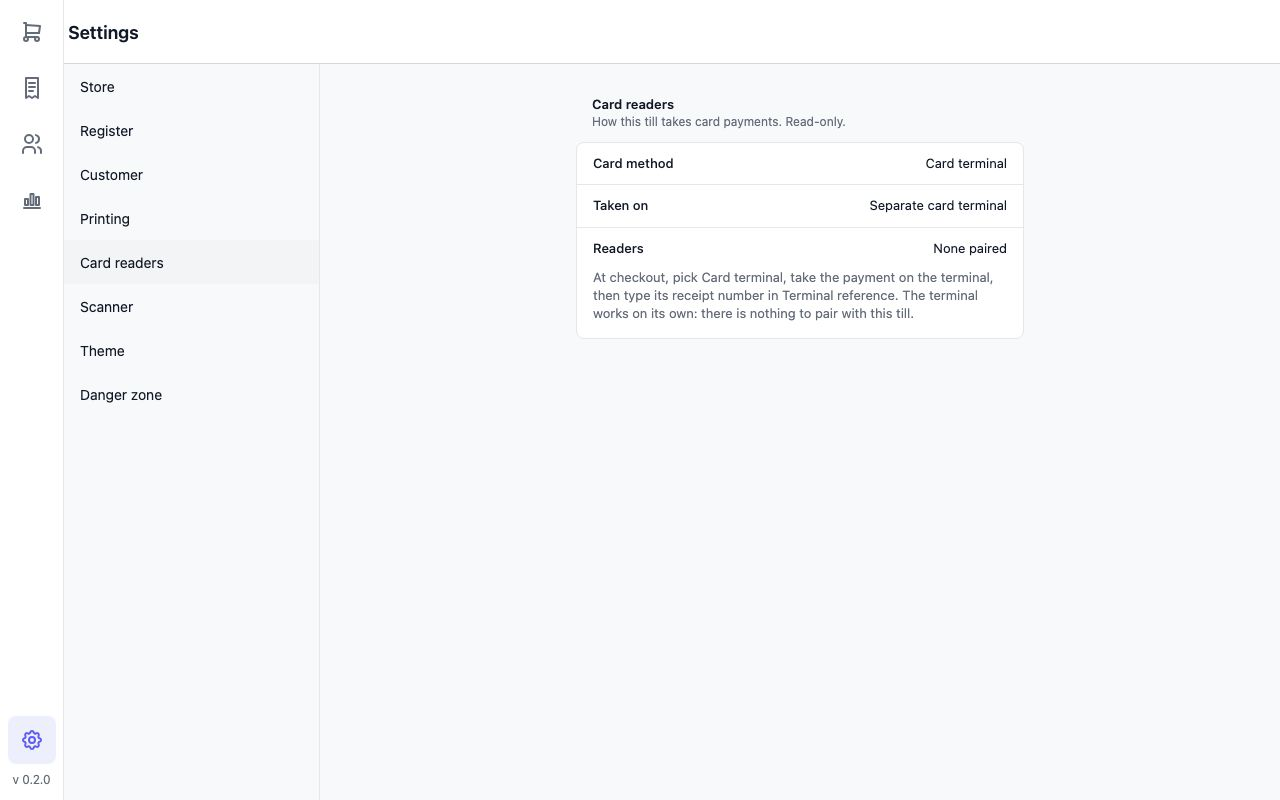
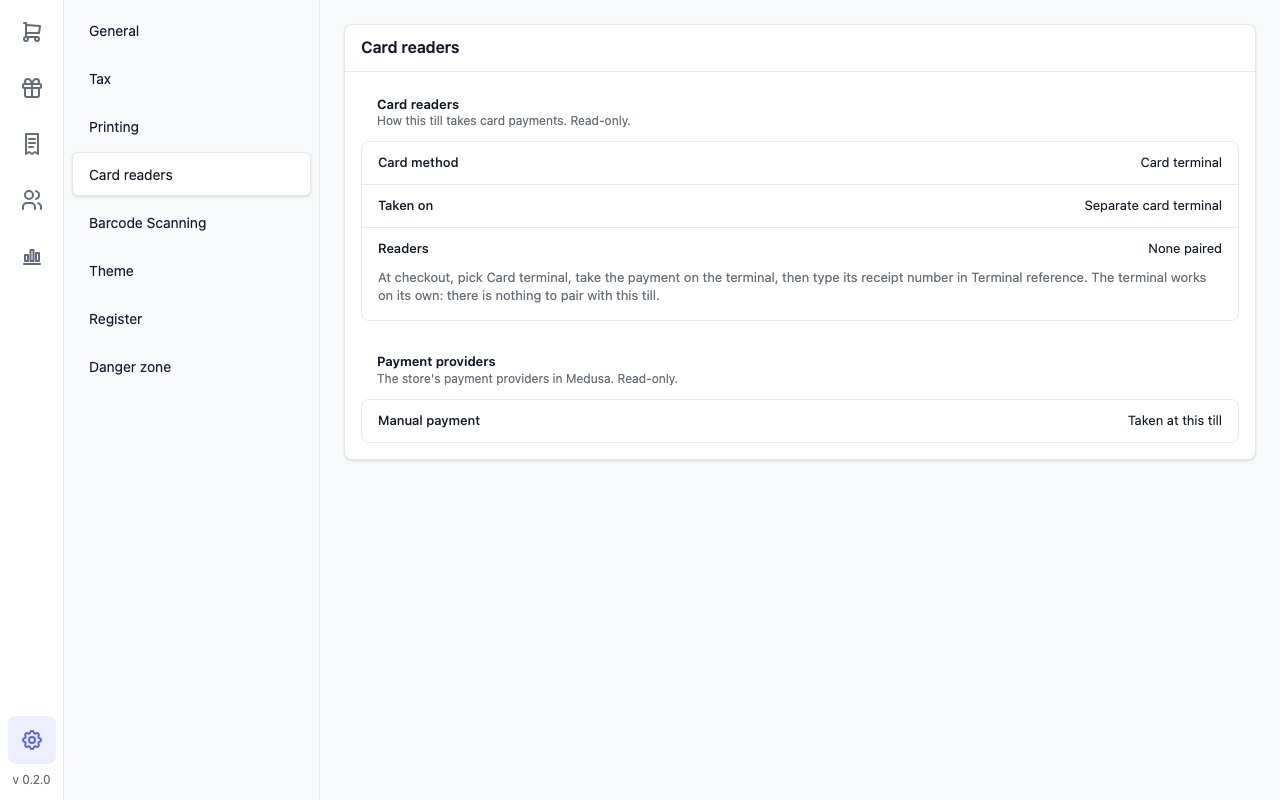
feat: Settings › Card readers lists the store's Medusa payment providers, as v2 lists readers (row 15d)
v2's Settings › Card readers lists the store's readers. The Medusa way is the
store's payment providers, so the plugin gets a read-only GET
/tally/v1/payment-providers (till auth + TALLY_POS_USE) that lists the
enabled providers from Medusa's payment module, each with a display name and
whether this till takes it (only pp_system_default, the provider the till
records sales through). Settings › Card readers draws them as a "Payment
providers" group under the unchanged Card readers group. An older plugin's
404 or any failed read shows no list. No pairing, no payment-flow change, no
PLUGIN_CONTRACT bump.

DEMO-PARITY row 15d re-shot and updated.

Claude-Session: https://claude.ai/code/session_013ukctmaNV1HP6KBYj7uJnX

diff --git a/apps/expo/tests/settings-card-readers.test.tsx b/apps/expo/tests/settings-card-readers.test.tsx
@@ -1,5 +1,5 @@
 // @vitest-environment jsdom
-import { act, cleanup, fireEvent, render, screen } from '@testing-library/react';
+import { act, cleanup, fireEvent, render, screen, waitFor } from '@testing-library/react';
 import type { ReactNode } from 'react';
 import { afterEach, beforeEach, describe, expect, it, vi } from 'vitest';
 import { saveSession } from '../lib/session';
@@ -29,8 +29,12 @@ vi.mock('expo-linking', () => ({ openURL: vi.fn().mockResolvedValue(true) }));
 vi.mock('expo-localization', () => ({ getLocales: () => [{ languageTag: 'en-GB' }] }));
 
 const baseUrl = 'https://store.test';
+const providersResponse = (providers: unknown[]) => vi.fn(async () => new Response(JSON.stringify({ providers }), {
+  status: 200, headers: { 'Content-Type': 'application/json' },
+}));
 
 beforeEach(() => {
+  vi.stubGlobal('fetch', providersResponse([]));
   const data = new Map<string, string>();
   vi.stubGlobal('localStorage', {
     getItem: (key: string) => data.get(key) ?? null,
@@ -80,5 +84,31 @@ describe('Settings › Card readers', () => {
     expect(cardReaders.textContent).toBe('Card readers');
     expect(follows(screen.getByTestId('settings-list-printing'), cardReaders)).toBe(true);
     expect(follows(cardReaders, screen.getByTestId('settings-list-scanner'))).toBe(true);
+  });
+
+  it("lists the store's payment providers and whether this till can take each", async () => {
+    vi.stubGlobal('fetch', providersResponse([
+      { id: 'pp_system_default', name: 'Manual payment', tillCanTake: true },
+      { id: 'pp_stripe_stripe', name: 'Stripe', tillCanTake: false },
+    ]));
+    setWindowWidth(1280, 800);
+    await mount();
+    fireEvent.click(screen.getByTestId('settings-nav-card-readers'));
+    await screen.findByTestId('settings-payment-providers');
+    expect(screen.getByTestId('settings-payment-provider-pp_system_default').textContent).toContain('Manual payment');
+    expect(screen.getByTestId('settings-payment-provider-pp_system_default-state').textContent).toBe('Taken at this till');
+    expect(screen.getByTestId('settings-payment-provider-pp_stripe_stripe').textContent).toContain('Stripe');
+    expect(screen.getByTestId('settings-payment-provider-pp_stripe_stripe-state').textContent).toBe('Not at this till');
+    expect(screen.getByTestId('settings-card-readers-how')).toBeTruthy();
+  });
+
+  it('with no payment providers shows the card note only', async () => {
+    setWindowWidth(1280, 800);
+    await mount();
+    fireEvent.click(screen.getByTestId('settings-nav-card-readers'));
+    await waitFor(() => expect(fetch).toHaveBeenCalledWith(`${baseUrl}/tally/v1/payment-providers`, expect.anything()));
+    await act(async () => {});
+    expect(screen.getByTestId('settings-card-readers-how')).toBeTruthy();
+    expect(screen.queryByTestId('settings-payment-providers')).toBeNull();
   });
 });

diff --git a/apps/expo/app/settings.tsx b/apps/expo/app/settings.tsx
@@ -10,6 +10,7 @@ import { DirectScannerConnection } from '../components/device-scanner';
 import { THEME_LABELS, ThemeTiles } from '../components/theme-tiles';
 import { FontPicker } from '../components/font-choice';
 import { PrintersGroup } from '../components/printers-group';
+import { PaymentProvidersGroup } from '../components/payment-providers-group';
 import { ReceiptTemplatesGroup } from '../components/receipt-templates';
 import { AreaAccountButton, FrameMenuButton, useFrameMenu } from '../components/app-frame';
 import { StripHeightContext } from '../components/store-refused';
@@ -65,7 +66,7 @@ export default function SettingsScreen() {
     { id: 'store', label: 'General', element: <StoreSection session={session} /> },
     { id: 'tax', label: 'Tax', element: <TaxSection session={session} /> },
     { id: 'printing', label: 'Printing', element: <PrintingSection session={session} /> },
-    { id: 'card-readers', label: 'Card readers', element: <CardReadersSection /> },
+    { id: 'card-readers', label: 'Card readers', element: <CardReadersSection session={session} /> },
     { id: 'scanner', label: 'Barcode Scanning', element: <ScannerSection session={session} /> },
     { id: 'theme', label: 'Theme', element: <ThemeSection /> },
     { id: 'register', label: 'Register', element: <RegisterSection session={session} /> },
@@ -320,9 +321,9 @@ function PrintingSection({ session }: { session: Session }) {
   <ReceiptTemplatesGroup session={session} />
   </>;
 }
-function CardReadersSection() {
+function CardReadersSection({ session }: { session: Session }) {
   const mode = cardPaymentMode(TILL_PAYMENT_METHODS);
-  return <SettingsGroup title="Card readers" testID="settings-card-readers" description="How this till takes card payments. Read-only.">
+  return <><SettingsGroup title="Card readers" testID="settings-card-readers" description="How this till takes card payments. Read-only.">
     {mode ? <>
       <SettingsRow label="Card method" action={
         <Text testID="settings-card-readers-method" className="max-w-40 text-right text-sm text-foreground">{mode.method}</Text>
@@ -339,7 +340,9 @@ function CardReadersSection() {
     </> : <View className="px-4 pb-4">
       <Text testID="settings-card-readers-none" className="text-sm text-muted-foreground">This till takes no card payments.</Text>
     </View>}
-  </SettingsGroup>;
+  </SettingsGroup>
+  <PaymentProvidersGroup session={session} />
+  </>;
 }
 function ScannerSection({ session }: { session: Session }) {
   const { settings, save, reset } = useScannerSettings(defaultStorage(), session.baseUrl);

diff --git a/packages/medusa-plugin/integration-tests/http/payment-providers.spec.ts b/packages/medusa-plugin/integration-tests/http/payment-providers.spec.ts
@@ -1,0 +1,47 @@
+import path from 'node:path'
+import type { MedusaContainer } from '@medusajs/framework/types'
+import { ContainerRegistrationKeys, Modules } from '@medusajs/framework/utils'
+import { medusaIntegrationTestRunner } from '@medusajs/test-utils'
+
+jest.setTimeout(180000)
+
+medusaIntegrationTestRunner({
+  cwd: path.resolve(__dirname, '../plugin-app'),
+  testSuite: ({ api, getContainer }) => {
+    let container: MedusaContainer
+    let headers: Record<string, string>
+    beforeAll(async () => {
+      container = getContainer()
+      const email = 'pos-admin@example.com'
+      const password = 'integration-test-password'
+      const user = await container.resolve(Modules.USER).createUsers({ email })
+      const auth = container.resolve(Modules.AUTH)
+      const { authIdentity, error } = await auth.register('emailpass', { body: { email, password } })
+      expect(error).toBeUndefined()
+      await auth.updateAuthIdentities({ id: authIdentity!.id, app_metadata: { user_id: user.id } })
+      const login = await api.post('/auth/user/emailpass', { email, password })
+      expect(login.status).toBe(200)
+      headers = { Authorization: `Bearer ${login.data.token}`, 'X-Tally-Protocol': '1' }
+      await container.resolve(ContainerRegistrationKeys.PG_CONNECTION)('payment_provider').insert([
+        { id: 'pp_acme-pay_acme', is_enabled: true },
+        { id: 'pp_old-gateway_old', is_enabled: false },
+      ])
+    })
+
+    it("lists the store's enabled payment providers, the till's own first", async () => {
+      const response = await api.get('/tally/v1/payment-providers', { headers })
+      expect(response.status).toBe(200)
+      expect(response.data.providers).toEqual([
+        { id: 'pp_system_default', name: 'Manual payment', tillCanTake: true },
+        { id: 'pp_acme-pay_acme', name: 'Acme Pay', tillCanTake: false },
+      ])
+    })
+
+    it("is refused without the till's auth", async () => {
+      const response = await api.get('/tally/v1/payment-providers', {
+        headers: { 'X-Tally-Protocol': '1' }, validateStatus: () => true,
+      })
+      expect(response.status).toBe(401)
+    })
+  },
+})

diff --git a/apps/expo/lib/payment-providers.test.ts b/apps/expo/lib/payment-providers.test.ts
@@ -1,0 +1,40 @@
+import { describe, expect, it, vi } from 'vitest';
+import { fetchPaymentProviders } from './payment-providers';
+
+const session = { baseUrl: 'https://store.test', token: 'tok_123' };
+const json = (status: number, body: unknown) => new Response(JSON.stringify(body), { status, headers: { 'Content-Type': 'application/json' } });
+
+describe('fetchPaymentProviders', () => {
+  it('returns the providers and drops a malformed row', async () => {
+    const fetchImpl = vi.fn().mockResolvedValue(json(200, { providers: [
+      { id: 'pp_system_default', name: 'Manual payment', tillCanTake: true },
+      { id: 'pp_stripe_stripe', name: 'Stripe' },
+      { id: 'pp_acme-pay_acme', name: 'Acme Pay', tillCanTake: false },
+    ] }));
+    await expect(fetchPaymentProviders(session, fetchImpl)).resolves.toEqual([
+      { id: 'pp_system_default', name: 'Manual payment', tillCanTake: true },
+      { id: 'pp_acme-pay_acme', name: 'Acme Pay', tillCanTake: false },
+    ]);
+  });
+
+  it('asks the plugin route with the session bearer token', async () => {
+    const fetchImpl = vi.fn().mockResolvedValue(json(200, { providers: [] }));
+    await fetchPaymentProviders(session, fetchImpl);
+    expect(fetchImpl).toHaveBeenCalledTimes(1);
+    const [url, init] = fetchImpl.mock.calls[0];
+    expect(url).toBe('https://store.test/tally/v1/payment-providers');
+    expect(new Headers(init.headers).get('Authorization')).toBe('Bearer tok_123');
+  });
+
+  it('returns null on a 404 from an older plugin', async () => {
+    await expect(fetchPaymentProviders(session, vi.fn().mockResolvedValue(json(404, { message: 'Not found' })))).resolves.toBeNull();
+  });
+
+  it('returns null when the fetch rejects', async () => {
+    await expect(fetchPaymentProviders(session, vi.fn().mockRejectedValue(new TypeError('Failed to fetch')))).resolves.toBeNull();
+  });
+
+  it('returns null on a body without a providers array', async () => {
+    await expect(fetchPaymentProviders(session, vi.fn().mockResolvedValue(json(200, { providers: 'none' })))).resolves.toBeNull();
+  });
+});

diff --git a/apps/expo/components/payment-providers-group.tsx b/apps/expo/components/payment-providers-group.tsx
@@ -1,0 +1,24 @@
+import { useEffect, useState } from 'react';
+import { SettingsGroup, SettingsRow, Text } from '@tallyui/components';
+import { fetchPaymentProviders, type PaymentProvider } from '../lib/payment-providers';
+import type { Session } from '../lib/session';
+
+// v2's Settings › Card readers lists the store's readers; on Medusa that is the store's payment providers.
+export function PaymentProvidersGroup({ session }: { session: Session }) {
+  const [providers, setProviders] = useState<PaymentProvider[] | null>(null);
+  useEffect(() => {
+    let mounted = true;
+    fetchPaymentProviders(session).then((result) => { if (mounted) setProviders(result); });
+    return () => { mounted = false; };
+  }, [session.baseUrl, session.token]);
+  if (!providers?.length) return null;
+  return <SettingsGroup title="Payment providers" testID="settings-payment-providers" description="The store's payment providers in Medusa. Read-only.">
+    {providers.map((provider, index) => <SettingsRow key={provider.id} label={provider.name} testID={`settings-payment-provider-${provider.id}`}
+      className={index > 0 ? 'border-t border-border' : undefined} action={
+        <Text testID={`settings-payment-provider-${provider.id}-state`}
+          className={`max-w-40 text-right text-sm ${provider.tillCanTake ? 'text-foreground' : 'text-muted-foreground'}`}>
+          {provider.tillCanTake ? 'Taken at this till' : 'Not at this till'}
+        </Text>
+      } />)}
+  </SettingsGroup>;
+}

diff --git a/apps/expo/lib/payment-providers.ts b/apps/expo/lib/payment-providers.ts
@@ -1,0 +1,22 @@
+import { authHeaders } from './pos-connector';
+import type { Session } from './session';
+
+export type PaymentProvider = { id: string; name: string; tillCanTake: boolean };
+
+function isProvider(row: unknown): row is PaymentProvider {
+  if (typeof row !== 'object' || row === null) return false;
+  const { id, name, tillCanTake } = row as Record<string, unknown>;
+  return typeof id === 'string' && typeof name === 'string' && typeof tillCanTake === 'boolean';
+}
+
+// The store's Medusa payment providers for Settings › Card readers; null when the plugin can't say (an older one answers 404).
+export async function fetchPaymentProviders(session: Pick<Session, 'baseUrl' | 'token'>,
+  fetchImpl = globalThis.fetch): Promise<PaymentProvider[] | null> {
+  try {
+    const response = await fetchImpl(`${session.baseUrl}/tally/v1/payment-providers`, { headers: authHeaders(session.token) });
+    if (!response.ok) return null;
+    const body: unknown = await response.json();
+    if (typeof body !== 'object' || body === null || !('providers' in body) || !Array.isArray(body.providers)) return null;
+    return body.providers.filter(isProvider).map(({ id, name, tillCanTake }) => ({ id, name, tillCanTake }));
+  } catch { return null; }
+}

diff --git a/packages/medusa-plugin/src/api/tally/v1/payment-providers/route.ts b/packages/medusa-plugin/src/api/tally/v1/payment-providers/route.ts
@@ -1,0 +1,18 @@
+import type { MedusaRequest, MedusaResponse } from '@medusajs/framework/http'
+import { Modules } from '@medusajs/framework/utils'
+import { SYSTEM_PROVIDER_ID } from '../../../../workflows/tally-order-create/resume'
+
+function providerName(id: string) {
+  if (id === SYSTEM_PROVIDER_ID) return 'Manual payment'
+  const match = /^pp_(.+)_[^_]+$/.exec(id)
+  if (!match) return id
+  return match[1].split('-').map(word => word.charAt(0).toUpperCase() + word.slice(1)).join(' ')
+}
+
+/** The store's enabled payment providers for the till's Settings › Card readers (v2 row 15d), read-only. */
+export async function GET(req: MedusaRequest, res: MedusaResponse) {
+  const providers = await req.scope.resolve(Modules.PAYMENT).listPaymentProviders({ is_enabled: true })
+  return res.json({ providers: providers
+    .map(({ id }) => ({ id, name: providerName(id), tillCanTake: id === SYSTEM_PROVIDER_ID }))
+    .sort((a, b) => Number(b.tillCanTake) - Number(a.tillCanTake) || (a.id < b.id ? -1 : a.id > b.id ? 1 : 0)) })
+}

diff --git a/packages/medusa-plugin/src/api/middlewares.ts b/packages/medusa-plugin/src/api/middlewares.ts
@@ -40,6 +40,9 @@ export default defineMiddlewares({
     { matcher: '/tally/v1/info', middlewares: [tallyCors('GET')] },
     { matcher: '/tally/v1/info', methods: ['GET'], middlewares: [authenticate('user', ['bearer', 'session'])] },
     { matcher: '/tally/v1/info', methods: ['GET'], policies: [TALLY_POS_USE] },
+    { matcher: '/tally/v1/payment-providers', middlewares: [tallyCors('GET')] },
+    { matcher: '/tally/v1/payment-providers', methods: ['GET'], middlewares: [authenticate('user', ['bearer', 'session'])] },
+    { matcher: '/tally/v1/payment-providers', methods: ['GET'], policies: [TALLY_POS_USE] },
     { matcher: '/tally/v1/register-approvals', middlewares: [tallyCors('POST')] },
     { matcher: '/tally/v1/register-approvals', methods: ['POST'], middlewares: [authenticate('user', ['bearer', 'session'])] },
     { matcher: '/tally/v1/register-approvals', methods: ['POST'], policies: [TALLY_POS_USE] },

diff --git a/packages/medusa-plugin/integration-tests/http/pos-access.spec.ts b/packages/medusa-plugin/integration-tests/http/pos-access.spec.ts
@@ -47,7 +47,7 @@ medusaIntegrationTestRunner({
       const headers = await loginWithRoles([])
       for (const url of [
         '/tally/v1/info', '/tally/v1/registers/reg_x', '/tally/v1/changes', '/tally/v1/changes/tick',
-        '/tally/v1/registers/reg_x/closures',
+        '/tally/v1/registers/reg_x/closures', '/tally/v1/payment-providers',
       ]) {
         const response = await api.get(url, { headers, validateStatus: () => true })
         expect(response.status).toBe(403)

diff --git a/packages/medusa-plugin/src/workflows/tally-order-create/resume.ts b/packages/medusa-plugin/src/workflows/tally-order-create/resume.ts
@@ -9,7 +9,7 @@ import { fulfillmentGroups } from './plan'
 import { couponResumeWorkflow, takeBackStockWorkflow } from './workflow'
 
 // The provider markPaymentCollectionAsPaid uses (core-flows systemPaymentProviderId).
-const SYSTEM_PROVIDER_ID = 'pp_system_default'
+export const SYSTEM_PROVIDER_ID = 'pp_system_default'
 
 export async function resumeOrderCreate(container: MedusaContainer, orderId: string,
   paymentAmount: number, locationId: string, shippingOptionId: string) {

diff --git a/docs/v2-parity/DEMO-PARITY.md b/docs/v2-parity/DEMO-PARITY.md
@@ -85,7 +85,7 @@ D = `https://docs.wcpos.com/img/2.x`
 | 15a | Settings, general | [demo](demo-shots/15-settings-general-demo-desktop.jpg) | [sub-nav](demo-shots/15a.1-settings-subnav-medusapos-desktop.jpg), [general with default customer](demo-shots/15a.1-settings-general-default-customer-medusapos-desktop.jpg), [tax](demo-shots/15a.1-settings-tax-medusapos-desktop.jpg), [default customer](demo-shots/15-settings-default-customer-medusapos-desktop.jpg), [currency & numbers](demo-shots/15a-settings-currency-medusapos-desktop.jpg), [default customer is cashier](demo-shots/15a-settings-default-customer-cashier-medusapos-desktop.jpg), [no title bar, tablet](demo-shots/15-settings-no-title-bar-medusapos-tablet.jpg) (2026-11-18, areas title bars), phone: [list](demo-shots/15a-settings-phone-list-medusapos-phone.jpg), [General page](demo-shots/15a-settings-phone-general-medusapos-phone.jpg), [Tax page](demo-shots/15a-settings-phone-tax-medusapos-phone.jpg) (2026-11-18; [demo phone](demo-shots/15a-settings-phone-demo-phone.jpg), [before](demo-shots/15a-settings-phone-before-medusapos-phone.jpg)), Admin links (2026-11-18): [General](demo-shots/15a.2-settings-admin-links-medusapos-desktop.jpg), [Tax](demo-shots/15a.2-settings-tax-admin-links-medusapos-desktop.jpg), [phone General](demo-shots/15a.2-settings-admin-links-medusapos-phone.jpg), default customer field (2026-11-18): [General](demo-shots/15a.3-settings-default-customer-field-medusapos-desktop.jpg), [dialog, Guest chosen](demo-shots/15a.3-settings-default-customer-dialog-medusapos-desktop.jpg) (re-shot 2026-11-19), [phone General](demo-shots/15a.3-settings-default-customer-field-medusapos-phone.jpg), Guest's chosen look (2026-11-19): [a customer chosen](demo-shots/15a.3-settings-default-customer-guest-unchosen-medusapos-desktop.jpg), [phone dialog](demo-shots/15a.3-settings-default-customer-guest-chosen-medusapos-phone.jpg) | close | 1. Done (re-shot 2026-11-18): from 768 px wide, Settings is a left sub-nav beside the chosen section, as in the demo (TU `SettingsLayout` `layout="split"`); a phone lists the same sections in the same order (see 6). The nav reads General, Tax, Printing, Card readers, Barcode Scanning, Theme, as the demo's, then Register and Danger zone, which the demo keeps elsewhere (Customer Display is 15e). General holds the default customer between Store and Currency & numbers, as the demo's General does (2026-11-18); there is no separate Customer entry. Tax is its own section, as the demo's General / Tax split, the Medusa way: read-only "Set per region in Medusa Admin", with the till's region, "Prices include tax" and the names and rates of the tax rates Medusa defines for the till's country (the default marked), where the demo has WooCommerce's calculation and display settings. The chosen nav item is a white rounded card, and the chosen section is one full-width card titled with its nav name ("General", "Tax", ...), as the demo's (re-shot 2026-11-18). Still different: inside that card each group keeps TallyUI's own bordered box of label and value rows, where the demo draws flat rows with label, value and "Set in WooCommerce" columns (`TU components SettingsGroup`, no flat variant). 2. Store facts are read-only "Set in Medusa Admin", like the demo's "Set in WooCommerce"; that part is the Medusa way. Done 2026-11-18 (15a.2): each read-only row of Store (General) and Tax ends with "Open ↗", as the demo's per-row "Set in WooCommerce · Open ↗", opening the Medusa Admin page that sets it in a new tab (the system browser on native): Store name to Store, Currency, Region and Prices include tax to Regions, Stock location to Locations, Sales channel to Sales Channels, the tax rates to Tax Regions. The paths sit in one list beside the user sheet's "Medusa Admin" link (`lib/medusa-admin.ts`). Currency & numbers has none, since its separators follow the device, not Admin. Still different: the link sits on each row, not beside the group's "Set in Medusa Admin" note, since a TallyUI group header holds only text (`TU components SettingsGroup`, `description` is a string). 3. Default customer: done, under Settings → General between Store and Currency & numbers, as the demo's; every new sale starts on it. Medusa has no store setting for it, so it is kept per till per store. "Default customer is cashier": done, a switch under the picker, kept per till per store. The Medusa way: a cashier is a Medusa admin user, not a customer, so new sales start on the Medusa customer whose email is the signed-in cashier's (found through the customer search and kept on the till for offline use); with no such customer they start on the default customer, and Settings says so. Still no language setting (`app`). 4. Currency format: done, a read-only "Currency & numbers" group under Store (symbol, symbol position, thousands and decimal separators, number of decimals, an example), like the demo's "Currency & numbers". The Medusa way: the currency follows the till's region, set in Medusa Admin; Medusa has no separator settings, so they are what TallyUI's `formatMoney` shows for that currency in the device's language. "Clear all local data" is there. 5. Done 2026-11-18: on a tablet (1024 × 768) and wider the screen starts at its sub-nav and section card, with no "Settings" title bar above it, as v2's screens do (and as Customers does since 11.4). The phone keeps its header, which holds the drawer's Menu. The screen stays a main landmark named Settings for screen readers, and the browser tab title is unchanged (`app`). 6. Done 2026-11-18: on a phone (narrower than 768 px) Settings is a plain list of the section names with a chevron each, in the sub-nav's order and labels, under the header with the drawer's Menu, as the demo's phone Settings is. A row opens that section on its own page (the same section the wide card shows), titled with its name, with "‹ Settings" in the header back to the list. Each section page is its own router entry (`/settings?section=tax`), so the browser back and Android's back button return to the list too, and a reload stays on the section. A section page has no Menu; the drawer is one step back, on the list. Still different: the rows are TallyUI's `SettingsRow` inside a pressable with an app-drawn chevron, since TallyUI has no pressable navigation row or right/left chevron icons (`TU components SettingsRow`), and its label is medium weight where the demo's is regular. 7. Done 2026-11-18 (15a.3): Default customer is the demo's one select-style field, tablet and phone: a "Default customer" row with the help line "Pre-selected on every new cart." and a bordered field showing the current default ("Guest" by default) with a down chevron; "Default customer is cashier" stays under it, and the two sit in a group titled "Customer" where the demo's sit in Localization beside Language, which the till does not have. A press opens TallyUI's `CustomerPicker` in a dialog, under a "Guest" choice; choosing Guest or a customer saves it and closes the dialog. The always-open search box and the separate "Use Guest" button are gone. Still different: the picker has no Guest option of its own, so the dialog's "Guest" button is the app's (`TU components CustomerPicker`), and the field is an app-drawn pressable box with TallyUI's `ChevronDownIcon`, since TallyUI's `Select` holds only its own items and cannot open a dialog. Done 2026-11-19: the dialog's Guest shows when it is the current default, tablet and phone: with no default customer it wears the chosen look TallyUI's customer select gives a chosen customer (primary border on a light primary tint) with a check after "Guest"; once a customer is the default it is a plain bordered button with no check. Still different: the check is app-drawn, since TallyUI exports no check icon, and the picker draws the chosen customer as a plain card without that chosen look (`TU components CustomerPicker`). |
 | 15b | Settings, tax | [demo](demo-shots/15-settings-tax-demo-desktop.jpg) | none | N/A | Medusa sets tax per region in Medusa Admin; the till shows the region, "Prices include tax" and the region's tax rates read-only in Settings → Tax (see 15a.1). |
 | 15c | Settings, printing | [demo](demo-shots/15-settings-printing-demo-desktop.jpg) | [medusapos](demo-shots/15c-settings-printing-medusapos-desktop.jpg), [templates](demo-shots/15c-receipt-templates-medusapos-desktop.jpg), [printers](demo-shots/15c.2-settings-printers-medusapos-desktop.jpg), [templates phone](demo-shots/15c.3-receipt-templates-medusapos-phone.jpg) | gap | 1. Done: a Printing view in the Settings sub-nav with v2's "Automatically print receipt after checkout" switch, off by default and saved per till per store. With it on, the paid screen opens the print window once as the sale completes, never again for that sale and never for a reprint from Orders. v2 keeps this switch in the cart's display settings; MedusaPOS puts it under Printing (`app`, 2026-11-17). 2. Done in part: a read-only "Print method" row under the switch names what a receipt goes through, "Print dialog (browser)" on web, as v2's "Auto — Print Dialog" does (`app`, 2026-11-17). Printers matches in part ([medusapos](demo-shots/15c.2-settings-printers-medusapos-desktop.jpg), [phone](demo-shots/15c.2-settings-printers-medusapos-phone.jpg)): v2's "Printers" group, "Devices receipts can be sent to.", sits above Receipt templates and lists the built-in Print dialog, kept as a TU printer profile in the till's local `printer_profiles` collection (never replicated). On web its Test print sends a short test page through TU `createPrintQueue` and the system print transport; on native it reads "Not available on this device" (`app`, 2026-11-19). No Add printer yet: a network or ESC/POS printer needs a TU web transport (`TU`). 3. Done in part ([medusapos](demo-shots/15c-receipt-templates-medusapos-desktop.jpg), [preview](demo-shots/15c-receipt-template-preview-medusapos-desktop.jpg)): v2's "Receipt templates" group under Printing lists Standard Receipt (Sales), Thermal Receipt (80mm) and Thermal Receipt (58mm), each going to "Auto — Print dialog" on web and "Not available on this device" on native. On a phone ([medusapos](demo-shots/15c.3-receipt-templates-medusapos-phone.jpg), [1280](demo-shots/15c.3-receipt-templates-medusapos-desktop.jpg)) each template's name has the row's width and its tag, printer and Preview wrap on the lines below it; a tablet or desktop keeps them beside the name. TU `SettingsRow` keeps its action beside the label and has no stacked layout, so the app puts them under the row below 600 wide (`TU`, `app`, 2026-11-19). On web each thermal row's Preview opens a right sheet with the template filled with a sample sale from the store's name and address, and Test print sends it through TU `createPrintQueue` and `createSystemPrintTransport` (`app`, 2026-11-18). Sales and the Orders reprint still print the Standard Receipt through the print dialog: TU `Receipt`'s Print receipt calls `window.print()` and takes no `onPrint`, so the app cannot send a sale to a chosen template (`TU`). No per-template printer choice yet, since the print dialog is the only printer (`app`). |
-| 15d | Settings, card readers | [demo](demo-shots/15-settings-card-readers-demo-desktop.jpg) | [medusapos](demo-shots/15d-settings-card-readers-medusapos-desktop.jpg) | gap | 1. Done: a read-only Card readers view in the Settings sub-nav, between Printing and Scanner as in v2. It reads the till's card method from the same payment-method list the tender pane uses: "Card terminal", taken on a separate card terminal, no readers paired, and the reference typed into "Terminal reference" at checkout (`app`, 2026-11-18). 2. Still no readers to list, pick or test: v2's smart readers (Stripe Terminal, SumUp) need a payment driver. TU ships `createPaymentDriverRegistry` (`app`, `plugin` payment provider). |
+| 15d | Settings, card readers | [demo](demo-shots/15-settings-card-readers-demo-desktop.jpg) | [medusapos](demo-shots/15d-settings-card-readers-medusapos-desktop.jpg) | gap | 1. Done: a read-only Card readers view in the Settings sub-nav, between Printing and Scanner as in v2. It reads the till's card method from the same payment-method list the tender pane uses: "Card terminal", taken on a separate card terminal, no readers paired, and the reference typed into "Terminal reference" at checkout (`app`, 2026-11-18). 2. Done (re-shot 2026-11-20): where v2 lists the store's readers, a "Payment providers" group below lists the store's enabled Medusa payment providers, each with whether this till takes it ("Manual payment · Taken at this till" on the e2e store; Stripe and the like read "Not at this till"). It is read from the plugin's `GET /tally/v1/payment-providers` (`app`, `plugin`). 3. Still no readers to pick or test, and no online status: v2's smart readers (Stripe Terminal, SumUp) need a payment driver, and TallyUI 3.20.1 exports no `createPaymentDriverRegistry` and no card-readers component (`TU`, `app`, `plugin` payment provider). |
 | 15e | Settings, customer display | [demo](demo-shots/15-settings-customer-display-demo-desktop.jpg) | none (no section) | gap | 1. No customer-facing display. TU ships `CustomerDisplaySettings` and `CustomerDisplayScreen` (`app`, `plugin` pairing). |
 | 15f | Settings, barcode scanning | [demo](demo-shots/15-settings-barcode-scanning-demo-desktop.jpg) | [medusapos](demo-shots/15f-settings-scanner-medusapos-desktop.jpg), [direct connection](demo-shots/15f-settings-scanner-direct-medusapos-desktop.jpg) | close | 1. Same two thresholds (average time per key, minimum characters), prefix and suffix fields and a "Play a sound on scan" switch, as in the demo. Prefix and suffix follow v2's rule: one character, removed only at the edge of a scan (TU `stripBoundary`). The sound is a short Web Audio beep, none on native (`app`). 2. Done 2026-11-19 (row 12.11): the Products area's search box removes the prefix and suffix and sounds on a scan typed into it, as the scan listeners and the test field do. Still different: the Sale's own search box does not, since TU `Catalogue` takes no prefix, suffix or scan callback (TU). 3. A "Direct connection" row (None until one is connected) and v2's "Connect a scanner directly (advanced)", offering "Connect over USB" (WebHID, HID POS mode) and "Connect over Bluetooth serial" (Web Serial), web only where the browser has them, through TU `ScanHubProvider`. A connected scanner gets a row with Connected or Not connected and Remove; profiles stay on the device. Its scans reach the sale through the same handler as the wedge (beep, lookup, add or "No product matches"), in every layout. v2's Bluetooth service-class UUID field, setup-guide link and side sheet are not there; the panel opens inline (`app`). Native shows nothing new. 4. The test field shows the code after the prefix and suffix are removed and whether it counts as a scan. |
 | 15g | Settings, theme | [demo](demo-shots/15-settings-theme-demo-desktop.jpg) | [medusapos](demo-shots/15-settings-theme-medusapos-desktop.jpg), [dark](demo-shots/19-theme-dark-medusapos-desktop.jpg), [scale](demo-shots/15-settings-scale-medusapos-desktop.jpg), [font](demo-shots/15-settings-theme-font-medusapos-desktop.jpg), [till in Space Grotesk](demo-shots/15-font-grotesk-till-medusapos-desktop.jpg), [tiles](demo-shots/15-settings-theme-tiles-medusapos-desktop.jpg), [Settings in Space Grotesk](demo-shots/15-settings-app-text-grotesk-medusapos-desktop.jpg), [Sale search in Space Grotesk](demo-shots/15g-inputs-grotesk-sale-medusapos-desktop.jpg), [Customers editor in Space Grotesk](demo-shots/15g-inputs-grotesk-customer-editor-medusapos-desktop.jpg) | close | 1. Ten theme tiles (System, Light, Dark and seven colour themes) on the settings page, as in the demo. 2. Scale (Auto, Compact, Regular, Spacious) under the tiles, kept per device and applied app-wide through TU `ScaleProvider`, as in the demo; the default is Regular, where the demo's is Auto, so a till that never chose keeps today's size. The choice applies on the web only (no native scope in Uniwind 1.4). The four buttons stand apart rather than as one joined control, and the pressed one is faint (`TU components ToggleGroup`). 3. A Font choice (System, DM Sans · Instrument Serif, Space Grotesk, DM Sans · Fraunces, Manrope) with an "Aa" preview, saved per till and applied through TU `FontProvider`; the OFL faces are bundled under `/fonts` and load on the web only. TallyUI text takes the font, and so do the app's own React Native text and the header titles (`AppText` reads TU `useFontType` and applies TU `fontFamilyStyle` by TU `Text`'s rule), so a till set to Space Grotesk reads in one face, as in the demo. Text inputs (Sale and Customers search, the Customers editor, notes, sign-in) take it too: on the web the app adds one style rule for `input` and `textarea` from the loaded set, by the same rule (`app`); TU's own inputs set no face, so on native they would still need TU to apply it. No "Match theme" option, since MedusaPOS themes carry no type set. No Icons choice (`app`). 4. On a wide window Theme is its own view in the Settings section nav (#329), holding the tiles, Scale and Font, as in the demo; on a phone Settings stays one page. Each tile carries v2's icon, name and one-line description, and the view prints "Current Theme" and "Current scale" lines, as in the demo; the colour swatches are gone, since the demo's tiles have none. |
